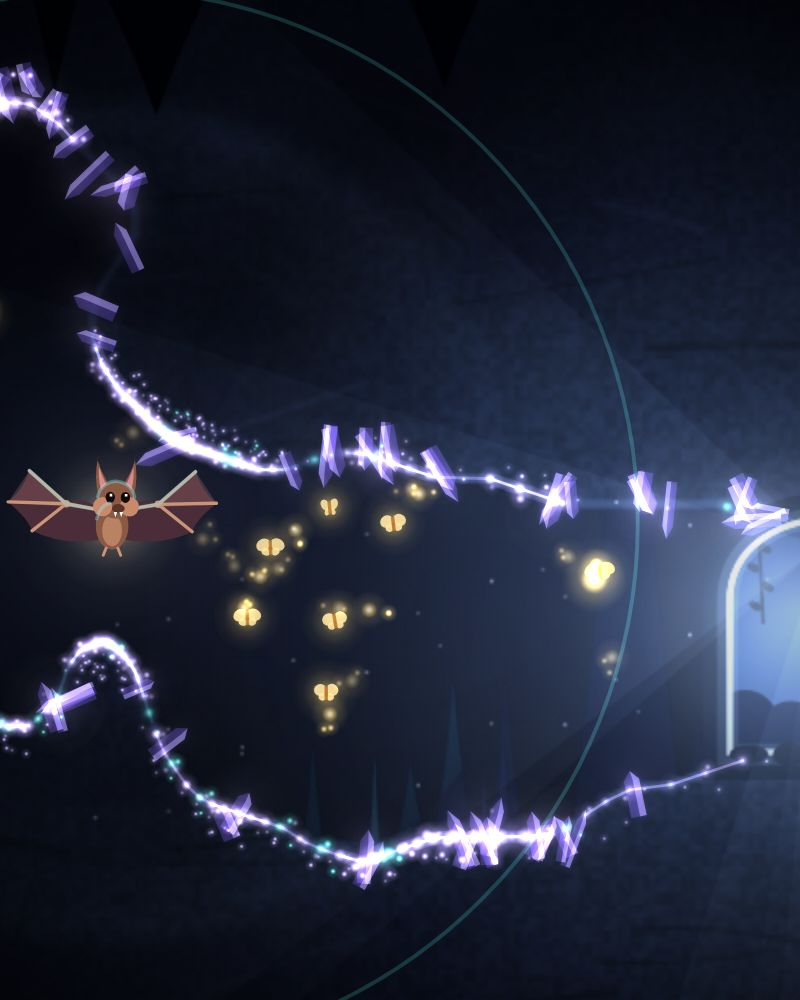
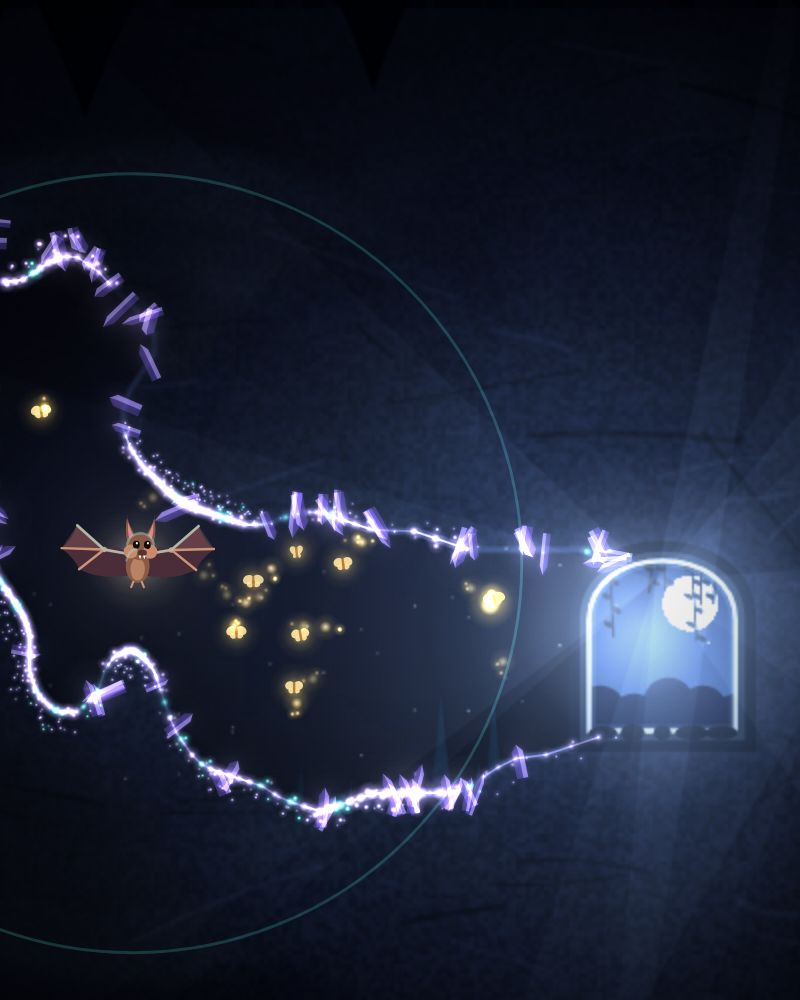
WIP checkpoint: batch in progress [skip ci]
Claude-Session: https://claude.ai/code/session_019z41fSQpv4wske49kBe2yE

diff --git a/games/pipistrelle/index.html b/games/pipistrelle/index.html
@@ -1073,11 +1073,13 @@ body { height: 100%; margin: 0; overflow: hidden; overscroll-behavior: none; bac
     return true;
   }
 
+  // energy drains a little faster in every deeper cave
+  const drainRate = () => 1.25 + Math.min(1.15, (G.cave - 1) * 0.11);
   function eatMoth(m) {
     m.dead = true;
     G.carried++; G.mothsEaten++;
     const was = G.energy;
-    G.energy = Math.min(E_MAX, G.energy + 6);
+    G.energy = Math.min(E_MAX, G.energy + 5);
     const b = G.bat;
     b.puff = 1;
     Kit.tween(b, { puff: 0 }, 520, 'quadIn', { delay: 120 });
@@ -1284,7 +1286,7 @@ body { height: 100%; margin: 0; overflow: hidden; overscroll-behavior: none; bac
       if (G.fadeDir > 0 && G.fade >= 1) {
         G.fadeDir = 0;
         if (G.sub === 'dive') {
-          if (G.mode === 'play') G.energy = Math.min(E_MAX, G.energy + 10);
+          if (G.mode === 'play') G.energy = Math.min(E_MAX, G.energy + 6);
           enterCave(G.mode === 'play' ? G.cave + 1 : 1);
         }
       }
@@ -1393,7 +1395,7 @@ body { height: 100%; margin: 0; overflow: hidden; overscroll-behavior: none; bac
 
     // ---- energy ----
     if (play) {
-      G.energy -= (0.95 + Math.min(0.75, G.cave * 0.07)) * dt;
+      G.energy -= drainRate() * dt;
       if (G.energy < 25 && (G.lowBeat -= dt) <= 0) { Kit.sfx('heartbeat'); G.lowBeat = 0.55 + G.energy / 50; }
       if (safeFlag) G.energy = Math.max(G.energy, 40);
       if (G.energy <= 0) { die(); return; }
@@ -1587,7 +1589,7 @@ body { height: 100%; margin: 0; overflow: hidden; overscroll-behavior: none; bac
       fx.shake(7, 280);
     }
     fx.burst(x, y, { count: 26, color: ['#9aa9c8', '#5c6886', P.red], size: [1.5, 4], speed: [40, 200], angle: -Math.PI / 2, spread: 1.4, gravity: 420, shape: 'square', spin: [-8, 8], life: [0.5, 1] });
-    fx.burst(x, y, { count: 14, color: ['#2a3350'], size: [6, 12], sizeEnd: 2.2, speed: [10, 50], angle: -Math.PI / 2, spread: 1.6, life: [0.8, 1.4], drag: 2 });
+    fx.burst(x, y, { count: 16, color: ['#7f90b8', '#a9b6d6'], size: [3, 7], sizeEnd: 1.8, speed: [20, 70], angle: -Math.PI / 2, spread: 1.6, life: [0.7, 1.2], drag: 2.4, glow: true });
     sonar(x, y - 4, 230, 90, 'crash');
   }
 
@@ -1654,7 +1656,7 @@ body { height: 100%; margin: 0; overflow: hidden; overscroll-behavior: none; bac
         m.dead = true;
         const v = m.gold ? 3 : 1;
         G.score += v; N.caught += v; G.mothsEaten++;
-        if (play) G.energy = Math.min(E_MAX, G.energy + 2.5);
+        if (play) G.energy = Math.min(E_MAX, G.energy + 1.2);
         b.puff = 1; Kit.tween(b, { puff: 0 }, 420, 'quadIn', { delay: 80 });
         fx.burst(m.x, m.y, { count: m.gold ? 22 : 12, color: [P.gold, '#fff2c0'], glow: true, size: [1.4, 3.2], speed: [40, 160], life: [0.35, 0.7], shape: 'star' });
         if (play) {
@@ -1952,6 +1954,19 @@ body { height: 100%; margin: 0; overflow: hidden; overscroll-behavior: none; bac
       ctx.stroke();
       ctx.restore();
       if (s.state !== 'hang') gfx.light(ctx, s.x, s.fy + s.len * 0.6, 30, P.red, 0.4 * a);
+      if (s.state === 'fall') {
+        // speed lines and a few pebbles falling with it
+        const L2 = Math.min(90, s.vy * 0.09);
+        ctx.globalCompositeOperation = 'lighter';
+        ctx.strokeStyle = P.red; ctx.lineWidth = 1.2;
+        for (const [ox, k] of [[-s.w * 0.6, 0.35], [0, 0.55], [s.w * 0.6, 0.35]]) {
+          ctx.globalAlpha = k;
+          ctx.beginPath(); ctx.moveTo(s.x + ox, s.fy - 4); ctx.lineTo(s.x + ox * 0.6, s.fy - 4 - L2); ctx.stroke();
+        }
+        ctx.globalAlpha = 0.8; ctx.fillStyle = '#c9d2ea';
+        for (let k = 0; k < 4; k++) ctx.fillRect(s.x + Math.sin(k * 2.3) * s.w * 0.9, s.fy - 10 - k * L2 * 0.25, 2, 2);
+        ctx.globalAlpha = 1; ctx.globalCompositeOperation = 'source-over';
+      }
     }
     // drips
     for (const dr of L.drips) {
@@ -2824,9 +2839,10 @@ body { height: 100%; margin: 0; overflow: hidden; overscroll-behavior: none; bac
       fx.clear();
       G.cd = 0; chirp();
       loop.step(25);
-      camTarget.x = G.bat.x + 135; camTarget.y = G.bat.y - 10;
+      const tall = view.h > view.w;
+      camTarget.x = tall ? (G.bat.x + L.W + 34) / 2 : G.bat.x + 135; camTarget.y = G.bat.y - (tall ? 40 : 10);
       cam.x = camTarget.x; cam.y = camTarget.y;
-      cam.zoom = zoom * 1.3;
+      cam.zoom = zoom * (tall ? 0.95 : 1.3);
       G.bat.glide = 1; G.bat.flap = 1.4;
       loop.stop();
       loop.render();
@@ -2860,12 +2876,15 @@ body { height: 100%; margin: 0; overflow: hidden; overscroll-behavior: none; bac
       let sy = null;
       for (let d = 0; d < 300; d += 4) if (solidAt(bx + 70, by - d)) { sy = by - d; break; }
       if (sy !== null) L.stals.push({ x: bx + 70, y: sy, len: 40, w: 12, state: 'fall', t: 0, fy: sy + 26, vy: 260, lit: G.t, floor: by + 200, tick: 0 });
-      G.cd = 0; sonar(bx - 60, by - 20, CHIRP_R, CHIRP_RAYS, 'chirp');
+      G.cd = 0; sonar(bx - 180, by - 60, CHIRP_R, CHIRP_RAYS, 'chirp');
+      loop.step(40);
+      G.cd = 0; sonar(bx + 140, by - 80, CHIRP_R, CHIRP_RAYS, 'chirp');
       loop.step(16);
       G.cd = 0; chirp();
       loop.step(20);
       for (const s of L.stals) if (s.state === 'fall' && Math.abs(s.x - (bx + 70)) < 2) { s.fy = Math.min(s.fy, by - 70); s.vy = 300; }
       loop.step(2);
+      camTarget.x = cam.x = G.bat.x + 30; camTarget.y = cam.y = G.bat.y - 70;
       loop.stop();
       loop.render();
     },
